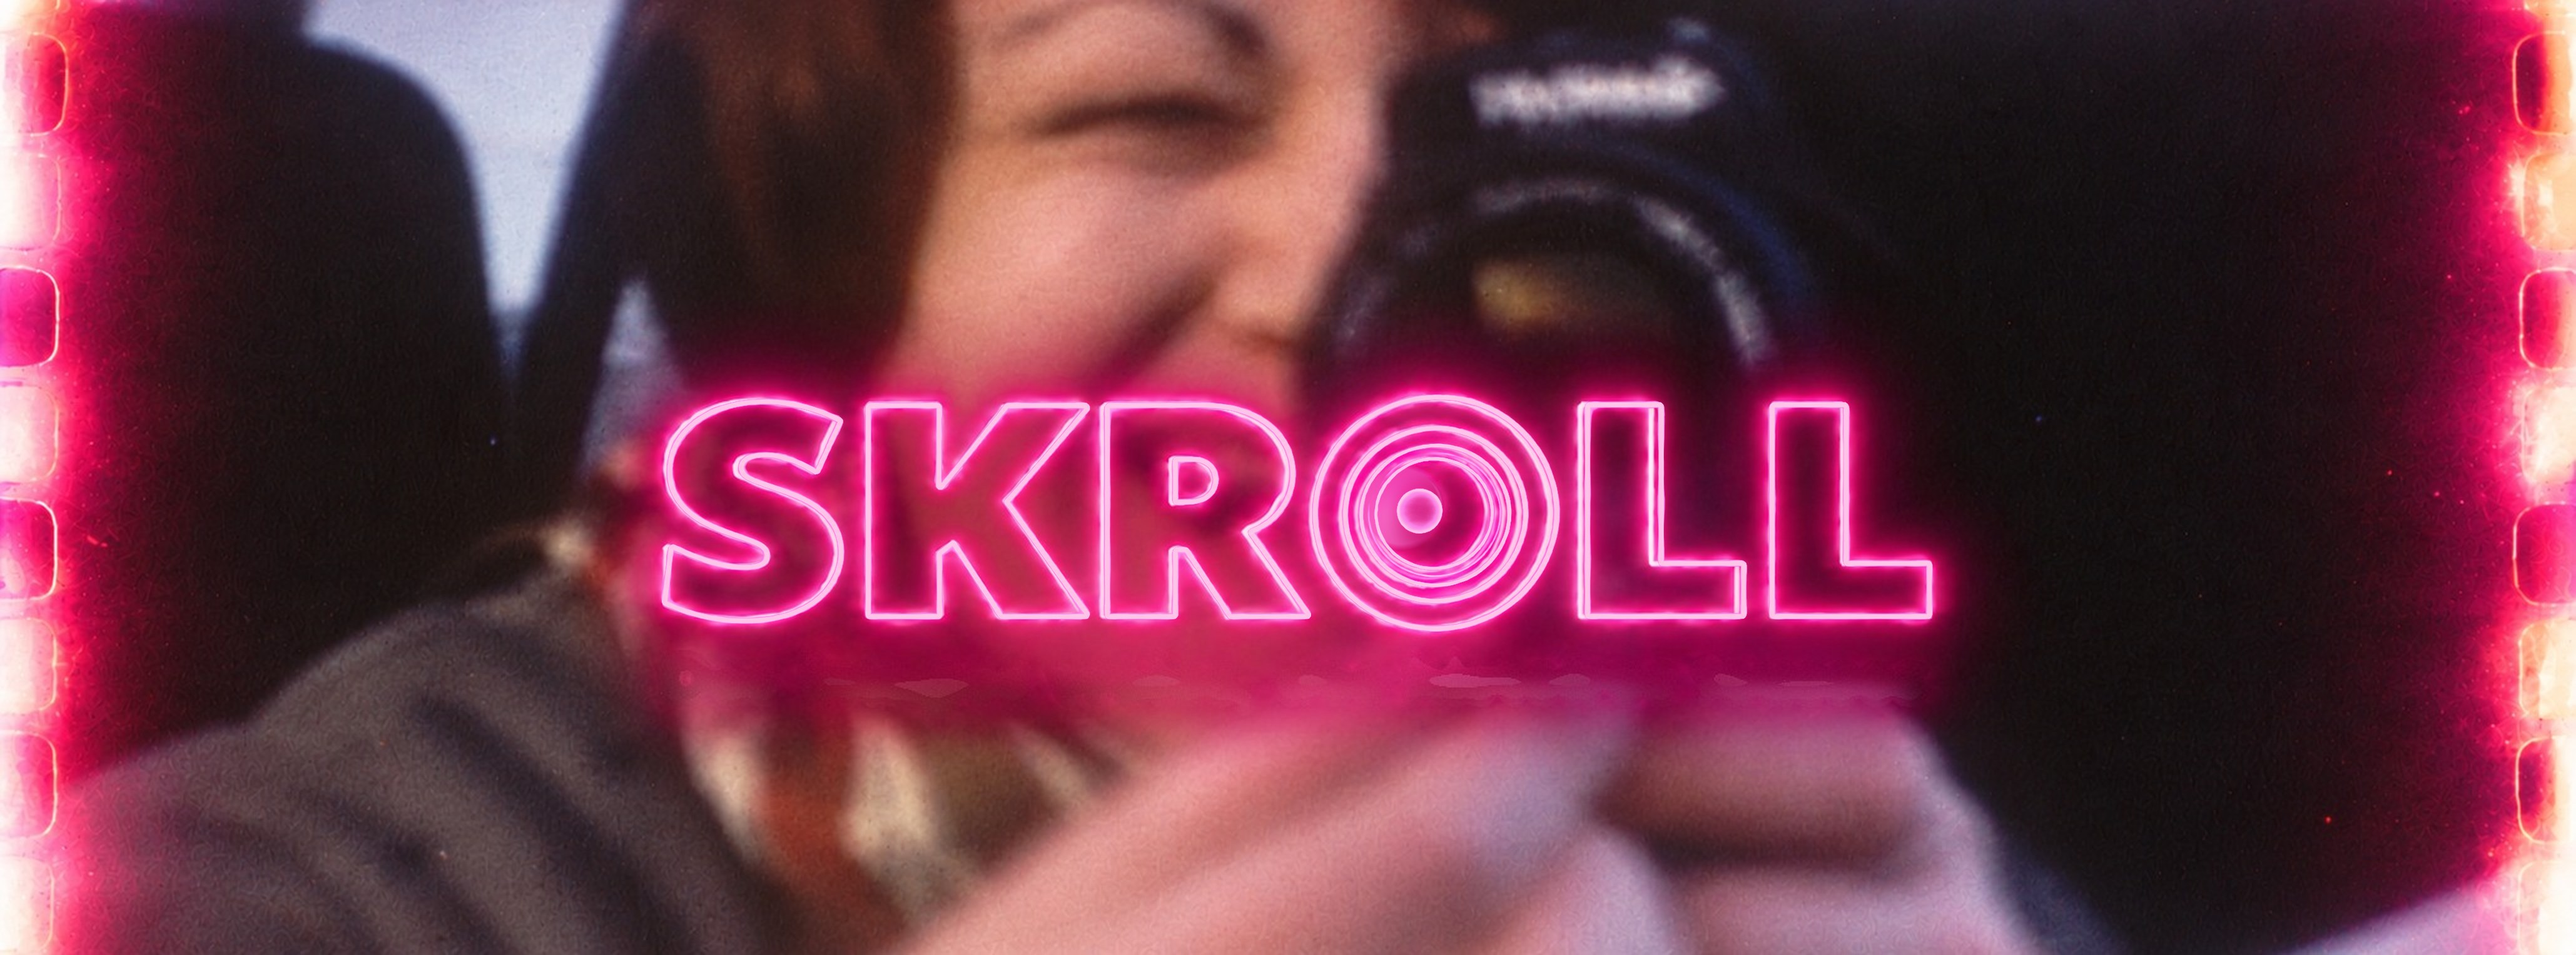
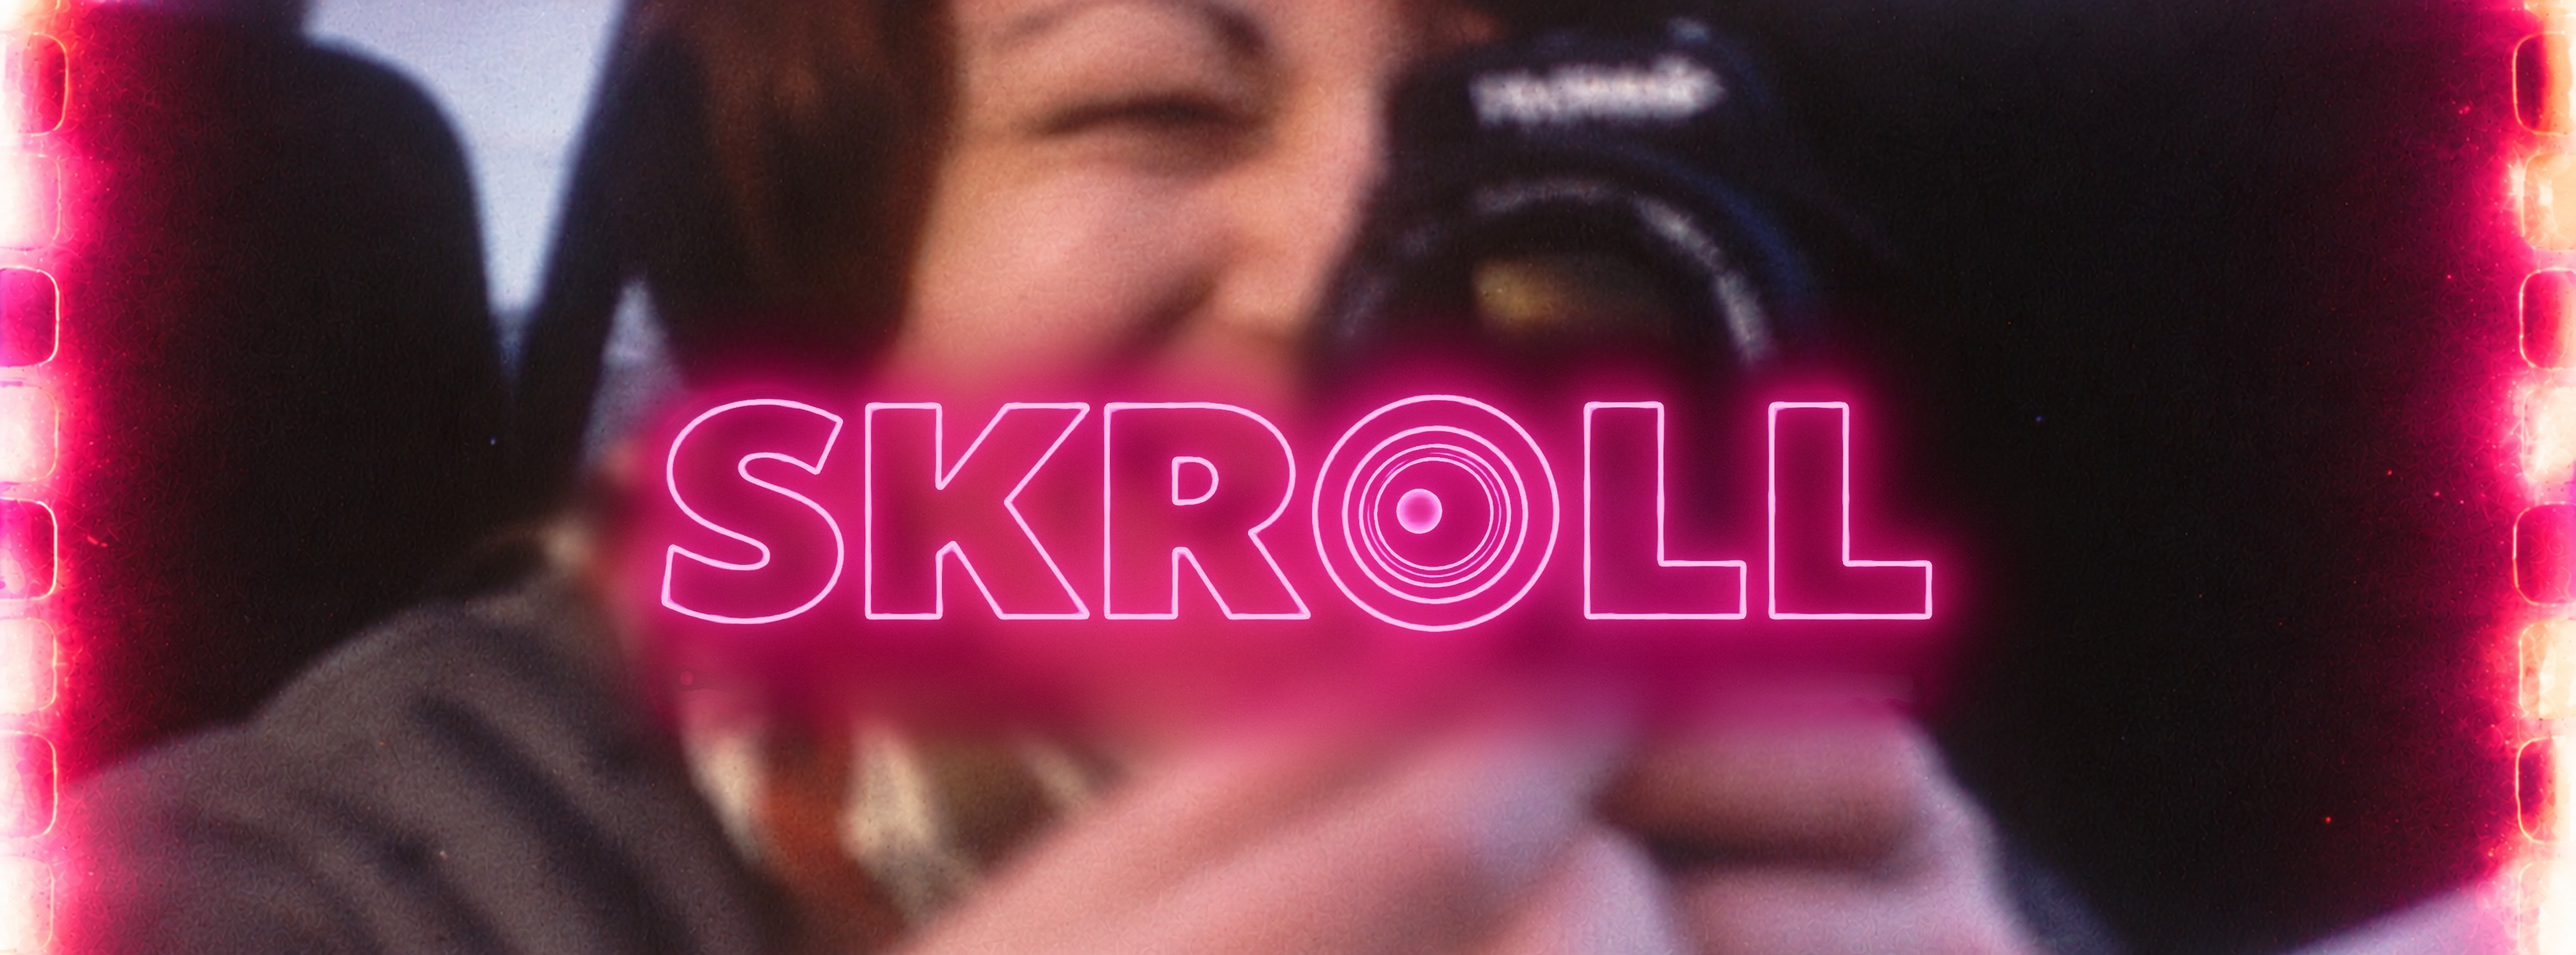
fix(accueil): bonne image de bannière néon

Changed region(s): [[0.2176, 0.3999, 0.7771, 0.6767]]

diff --git a/app/accueil/page.js b/app/accueil/page.js
@@ -148,7 +148,7 @@ export default function Accueil() {
             sur téléphone l'image est recadrée sur les côtés, le texte suit car il est placé en unités du cadre (cqw) */}
         <div className="relative overflow-hidden h-[58vw] md:h-auto">
           <div className="absolute left-1/2 -translate-x-1/2 h-full aspect-[2059/764] md:static md:translate-x-0 md:w-full md:h-auto" style={{ containerType: 'inline-size' }}>
-            <img src="/banniere-skroll-neon.jpg" alt="" width="4118" height="1528" className="block w-full h-full" />
+            <img src="/banniere-skroll-neon2.jpg" alt="" width="4118" height="1528" className="block w-full h-full" />
             <h1 className={`${baselineFont.className} absolute right-0 text-center text-white leading-none whitespace-nowrap`}
               style={{ top: '67.6%', left: '0.48%', fontSize: '2.41cqw', textShadow: '0 0 0.35em rgba(255, 46, 154, 0.55)' }}>
               <span className="sr-only">SKROLL : </span>Des images vraies, des histoires fausses
